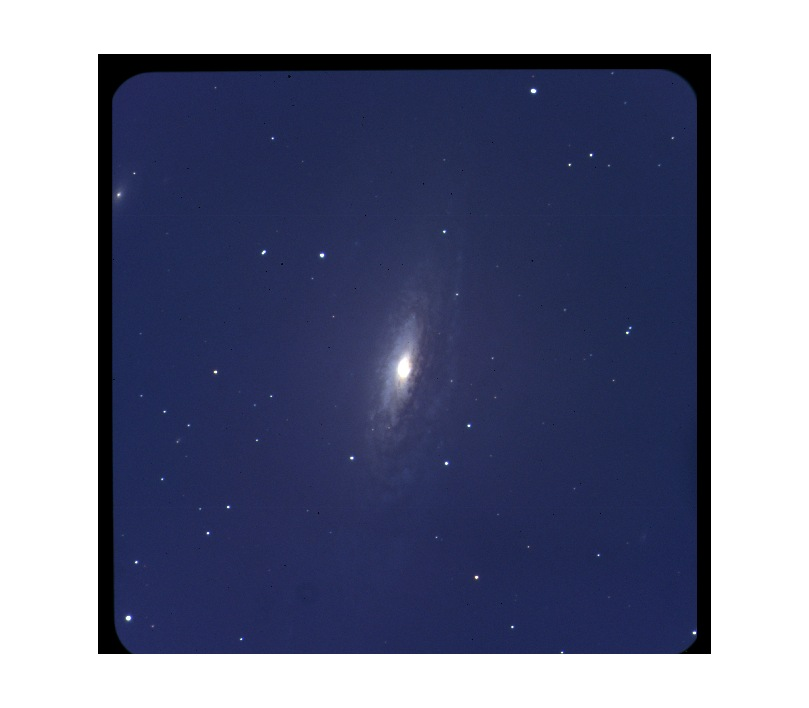
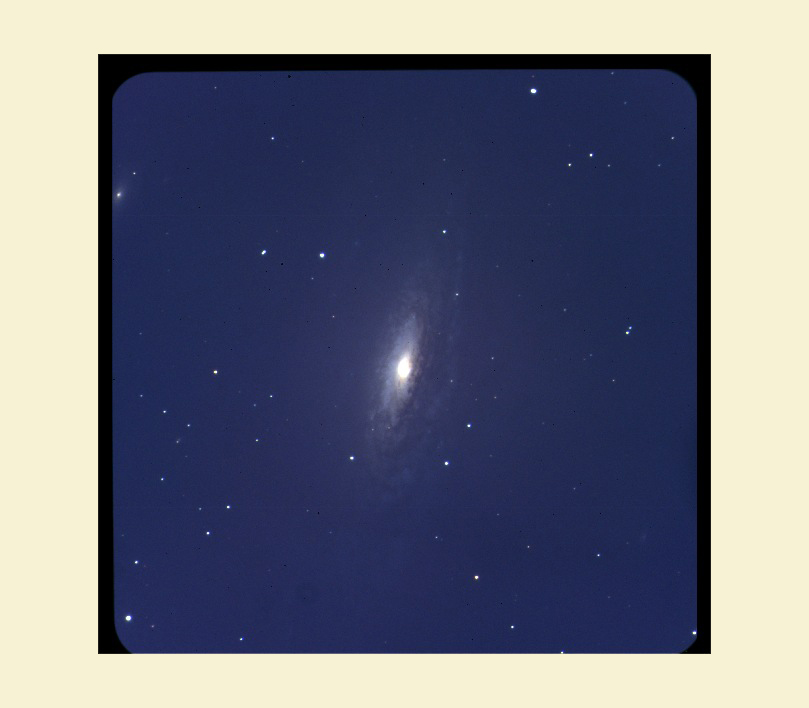
Removed gradient. Fixed background colors on NGC image and andromeda. Fixed font size on titles.

diff --git a/presentation/MyPresentation.qml b/presentation/MyPresentation.qml
@@ -17,14 +17,18 @@ TransitionPresentation
     width: 1280
     height: 720
     textColor: "black"
-
-    RadialGradient {
+    Rectangle {
         anchors.fill: parent
-        gradient: Gradient {
-            GradientStop { position: 0.0; color: "#FFFFFF" }
-            GradientStop { position: 1.0; color: "#f7f2d3" }
-        }
+        color: "#f7f2d3"
     }
+
+//    RadialGradient {
+//        anchors.fill: parent
+//        gradient: Gradient {
+//            GradientStop { position: 0.0; color: "#f7f2d3" }
+//            GradientStop { position: 1.0; color: "#f7f2d3" }
+//        }
+//    }
 
     Slide {
         id: firstSlide
@@ -58,10 +62,7 @@ TransitionPresentation
 
     Slide {
         id: ensjo
-        TopText {
-            text: "Langt å gå til Blindern"
-            font.pixelSize: defaultFontSize*0.75
-        }
+        title: "Langt å gå til Blindern"
 
         DefaultImage {
             source: "../figures/osloensjo.png"
@@ -70,10 +71,7 @@ TransitionPresentation
 
     Slide {
         id: moon1
-        TopText {
-            text: "Langt å fly til månen..."
-            font.pixelSize: defaultFontSize*0.75
-        }
+        title: "Langt å fly til månen..."
 
         DefaultImage {
             source: "../figures/earthmoon2.jpg"
@@ -85,37 +83,27 @@ TransitionPresentation
         title:  "NGC7331"
 
         DefaultImage {
+            scale: 1.3
             source: "../figures/NGC7331_hafreager_gboom.jpg"
         }
     }
 
     Slide {
         id: andromedaSlide
+        title: "Andromeda"
 
         AndromedaViewer {
-            y: 100
+            y: -50
             id: andromeda
             anchors.horizontalCenter: parent.horizontalCenter
             running: currentSlide === andromedaSlide
             height: presentation.height*0.8
         }
-
-        TopText {
-            text: "Andromeda"
-        }
     }
 
     Slide {
-        Text {
-            width: parent.width
-            anchors.horizontalCenter: parent.horizontalCenter
-            anchors.top: parent.top
-            font.family: firstSlide.titleFontFamily
-            font.pixelSize: firstSlide._titleFontSize * 0.5
-            horizontalAlignment: Text.Center
-
-            text: "Hvis Andromeda hadde lyst sterkere..."
-        }
+        title: "Hvis Andromeda hadde lyst sterkere..."
+        titleFont.pixelSize: _fontSize*0.75
 
         DefaultImage {
             source: "../figures/andromedaMoon.png"
@@ -123,16 +111,8 @@ TransitionPresentation
     }
 
     Slide {
-        Text {
-            width: parent.width
-            anchors.horizontalCenter: parent.horizontalCenter
-            anchors.top: parent.top
-            font.family: firstSlide.titleFontFamily
-            font.pixelSize: firstSlide._titleFontSize * 0.5
-            horizontalAlignment: Text.Center
-
-            text: "Universet er skikkelig stort..."
-        }
+        title: "Universet er skikkelig stort..."
+        titleFont.pixelSize: _fontSize*0.75
 
         DefaultImage {
             source: "../figures/universeSize.jpg"

diff --git a/modules/andromeda-viewer/and_renderer.cpp b/modules/andromeda-viewer/and_renderer.cpp
@@ -51,7 +51,7 @@ void Renderer::render()
     m_renderCount++;
     glDepthMask(true);
 
-    glClearColor(1.0, 1.0, 1.0, 1.0);
+    glClearColor(247.0/255, 242.0/255, 211.0/255, 1.0);
     glClear(GL_COLOR_BUFFER_BIT | GL_DEPTH_BUFFER_BIT);
 
     glDisable(GL_DEPTH_TEST);
